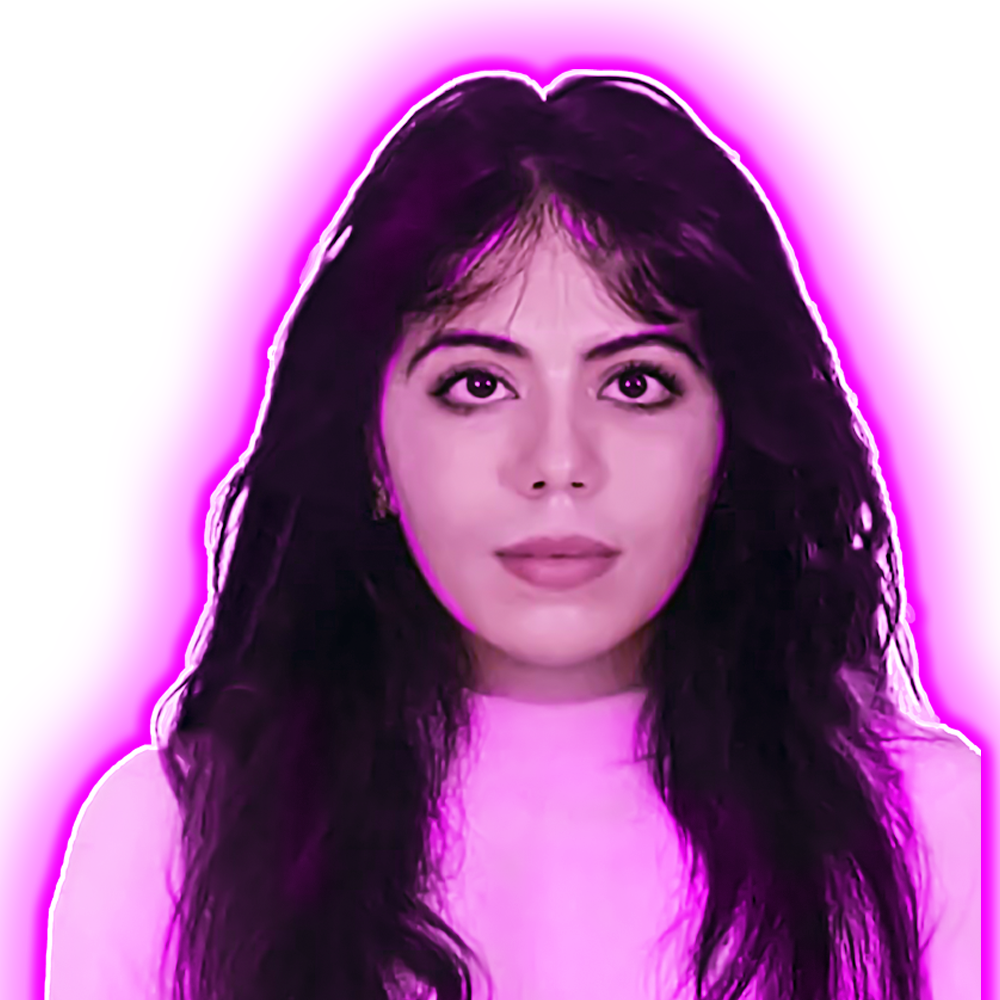
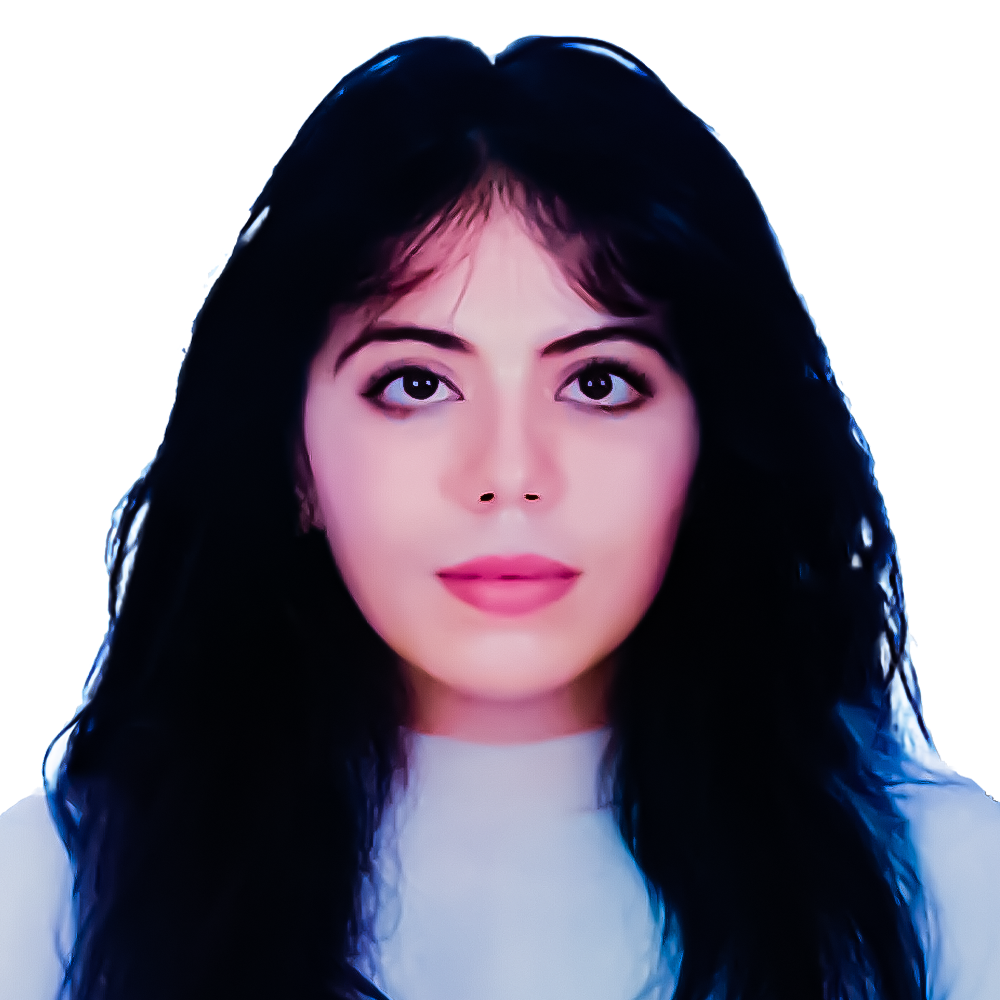
update

diff --git a/style.css b/style.css
@@ -1615,7 +1615,7 @@ span{
   @media (max-width:895px){
     :root {
         /* Reduce saturation and brightness */
-        --main-color: hsl(315, 100%, 32%); /* Less saturated */
+        --main-color: hsl(320, 100%, 41%); /* Less saturated */
         --bg-color: hsl(0, 0%, 5%);
         --second-bg-color: hsl(0, 0%, 11%); /* Softer white */
         
@@ -1723,8 +1723,9 @@ span{
     }
 
     .home-img img {
-        width: 75vw;
-        max-width: 280px;
+        content: url('aya.png');
+        width: 70vw;
+        max-width: 240px;
         margin-top: 0;
     }
 
